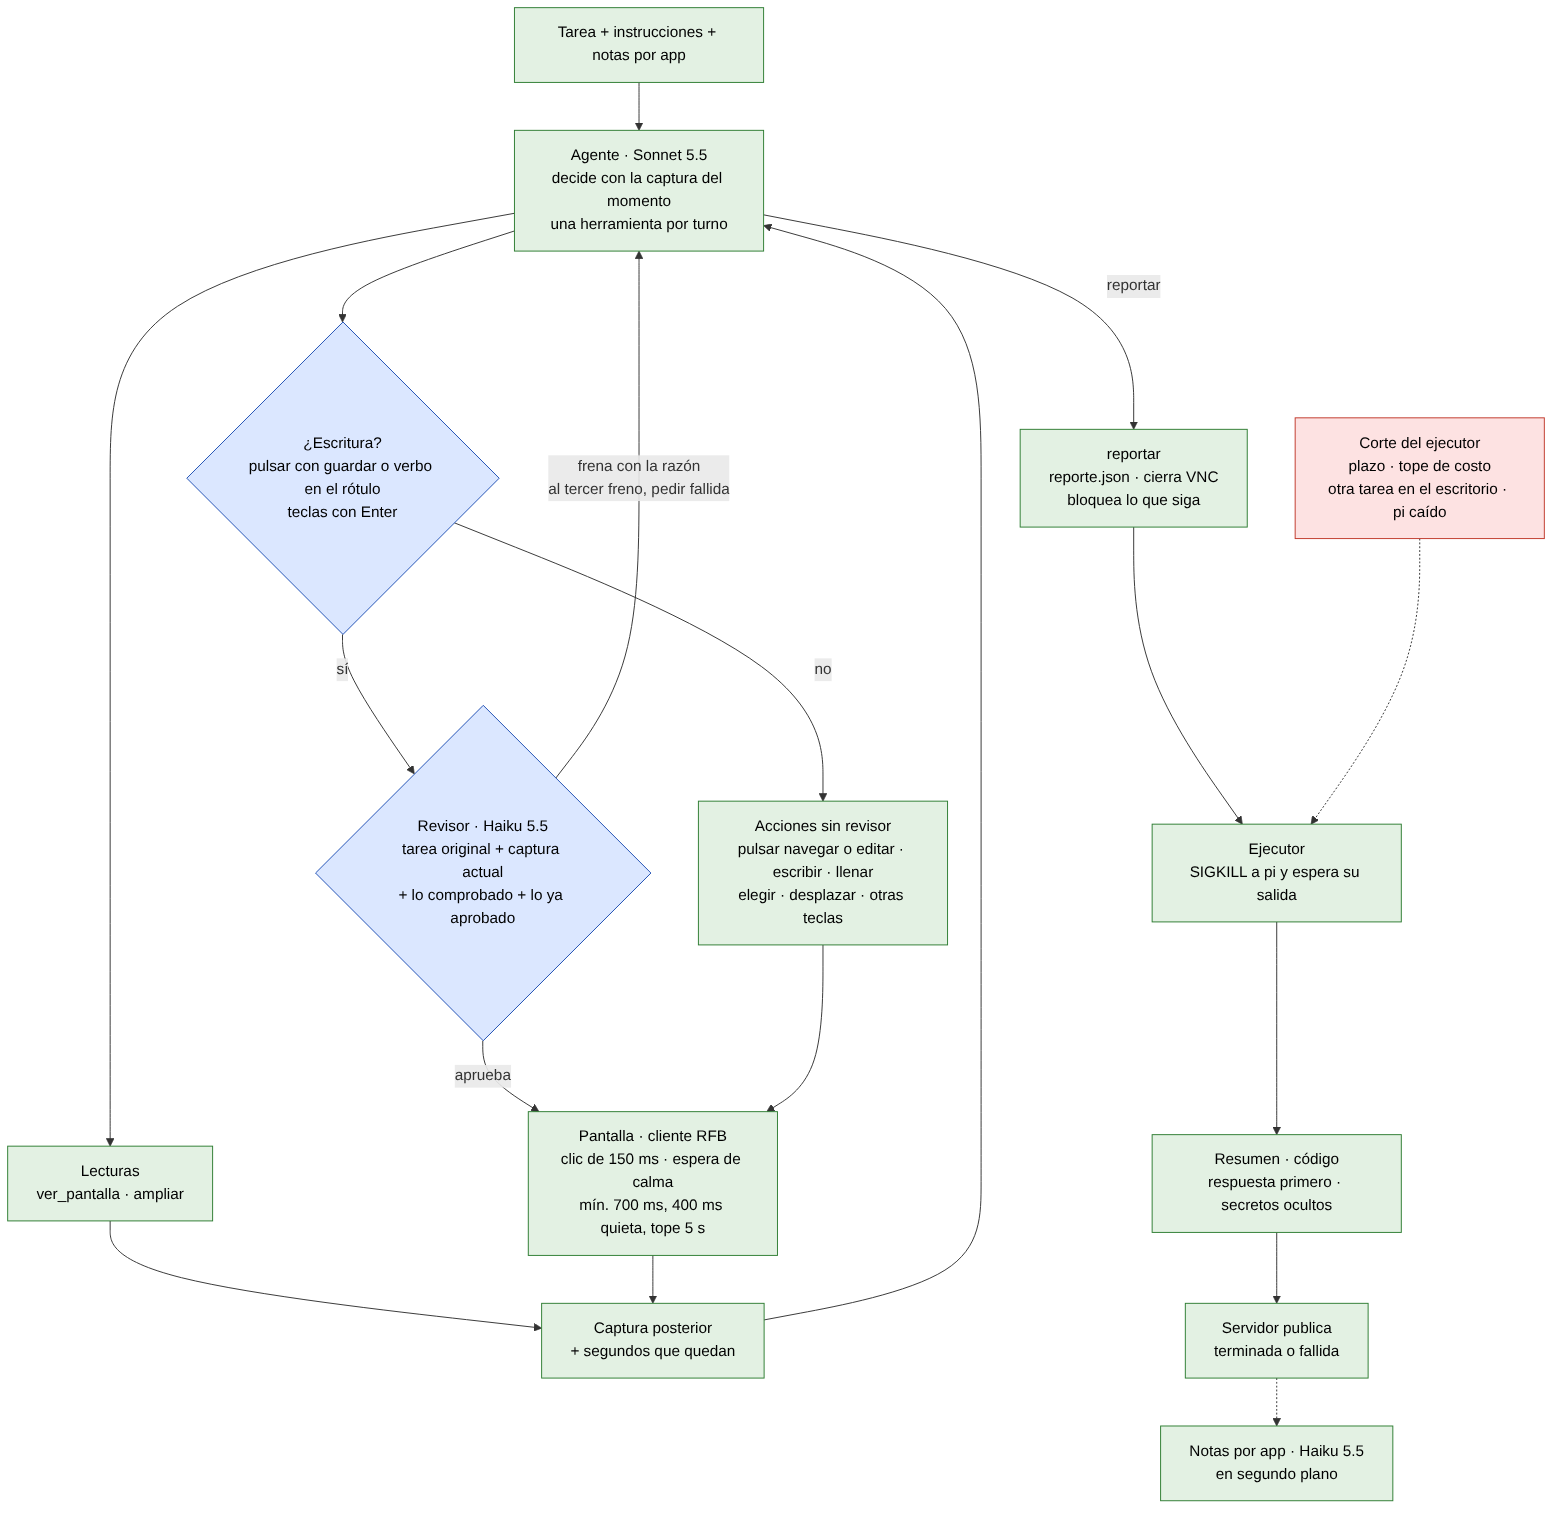
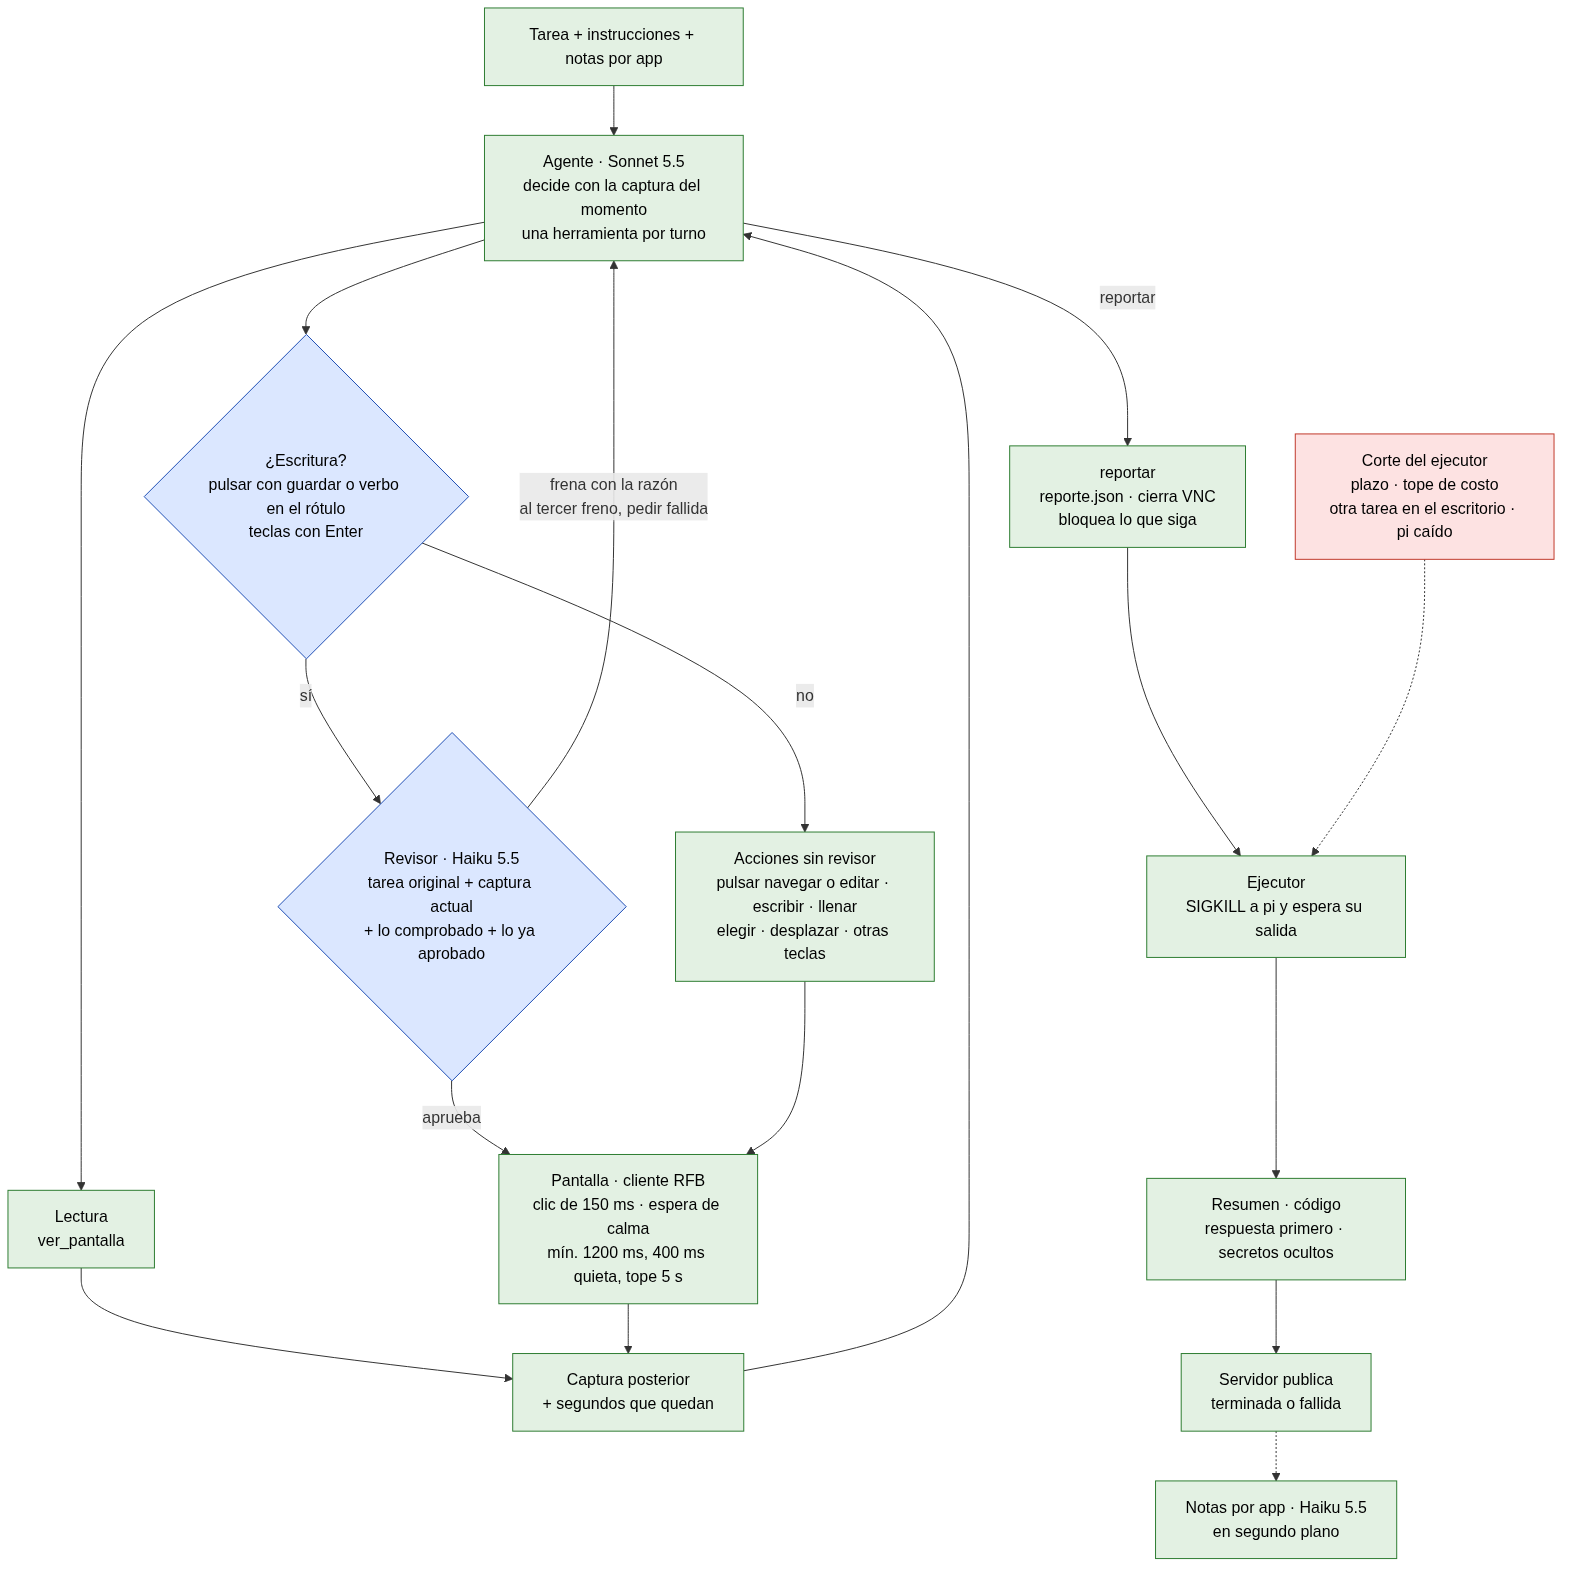
docs(arquitectura): actualizar herramientas, espera de repintado, plazo, tope y volumen en los diagramas
Ocho herramientas y solo ver_pantalla como lectura; espera mínima de 1200 ms; plazo de 285 s y tope de 0.50 USD; respaldo a plazo + TASK_GRACE_MS/2 y + TASK_GRACE_MS (8 s en Railway); /data como volumen. La tabla de límites deja de mencionar ampliaciones y agrega la bajada de datos del volumen con scripts/bajar-datos.sh. Regenera los tres PNG de docs/img con mermaid-cli 11.4.2.

diff --git a/docs/arquitectura.md b/docs/arquitectura.md
@@ -15,15 +15,15 @@ flowchart LR
     subgraph SVC["Contenedor siempre encendido en Railway · zona confiable"]
         direction TB
         SRV["Servidor HTTP · servidor.ts<br/>/health · POST /tasks · GET /tasks/id<br/>Bearer salvo /health"]
-        EJE["Ejecutor · ejecutor.ts<br/>un proceso de pi por tarea<br/>plazo 280 s · tope 0.60 USD"]
+        EJE["Ejecutor · ejecutor.ts<br/>un proceso de pi por tarea<br/>plazo 285 s · tope 0.50 USD"]
         subgraph PI["Proceso de pi de la tarea · entorno mínimo"]
             direction TB
             AG["Agente<br/>instrucciones.md + notas por app"]
-            EXT["Extensión herramientas.ts<br/>9 herramientas · revisor · traza"]
+            EXT["Extensión herramientas.ts<br/>8 herramientas · revisor · traza"]
             RFB["Cliente RFB propio<br/>src/escritorio"]
         end
         MEM["Notas por app · memoria.ts<br/>otro pi, sin herramientas"]
-        DATA[("DATA_DIR · /data<br/>tasks · trazas · notas-apps")]
+        DATA[("DATA_DIR · volumen /data<br/>tasks · trazas · notas-apps")]
     end
 
     subgraph OR["OpenRouter · externo"]
@@ -67,11 +67,11 @@ Cada caja dice qué modelo usa, si usa uno. Solo las acciones de escritura pasan
 flowchart TB
     T["Tarea + instrucciones + notas por app"]
     A["Agente · Sonnet 5.5<br/>decide con la captura del momento<br/>una herramienta por turno"]
-    L["Lecturas<br/>ver_pantalla · ampliar"]
+    L["Lectura<br/>ver_pantalla"]
     W{"¿Escritura?<br/>pulsar con guardar o verbo en el rótulo<br/>teclas con Enter"}
     ACC["Acciones sin revisor<br/>pulsar navegar o editar · escribir · llenar<br/>elegir · desplazar · otras teclas"]
     R{"Revisor · Haiku 5.5<br/>tarea original + captura actual<br/>+ lo comprobado + lo ya aprobado"}
-    P["Pantalla · cliente RFB<br/>clic de 150 ms · espera de calma<br/>mín. 700 ms, 400 ms quieta, tope 5 s"]
+    P["Pantalla · cliente RFB<br/>clic de 150 ms · espera de calma<br/>mín. 1200 ms, 400 ms quieta, tope 5 s"]
     O["Captura posterior<br/>+ segundos que quedan"]
     REP["reportar<br/>reporte.json · cierra VNC<br/>bloquea lo que siga"]
     CUT["Corte del ejecutor<br/>plazo · tope de costo<br/>otra tarea en el escritorio · pi caído"]
@@ -171,7 +171,7 @@ sequenceDiagram
     EJE->>EJE: armar el resumen con la respuesta primero, ocultar secretos
     EJE-->>SRV: desenlace
     SRV->>SRV: ocultar secretos otra vez, guardar y publicar
-    Note over SRV: respaldo si el ejecutor no devuelve<br/>pedir parar a plazo + 5 s, publicar fallida a plazo + 10 s
+    Note over SRV: respaldo si el ejecutor no devuelve<br/>pedir parar a plazo + TASK_GRACE_MS/2<br/>publicar fallida a plazo + TASK_GRACE_MS (8 s en Railway)
     EV->>SRV: GET /tasks/task_id
     SRV-->>EV: terminada o fallida + resumen
     SRV-)MEM: actualizar las notas de la app, en serie
@@ -181,13 +181,13 @@ Imagen: [img/2-secuencia.png](img/2-secuencia.png).
 
 ## 3. Límites de confianza
 
-| Límite                       | Qué lo cruza                                                                                                                                                                            | Regla                                                                                                                                                                                                                                                                                                     |
-| ---------------------------- | --------------------------------------------------------------------------------------------------------------------------------------------------------------------------------------- | --------------------------------------------------------------------------------------------------------------------------------------------------------------------------------------------------------------------------------------------------------------------------------------------------------- |
-| Evaluador → servidor         | Tarea, URL y contraseña del escritorio                                                                                                                                                  | Bearer en `POST /tasks` y `GET /tasks/{id}`, comparado en tiempo constante; `/health` no lo exige y lo acepta si viene. Cuerpo de hasta 64 KB, validado. La contraseña entra a la lista de secretos apenas llega.                                                                                         |
-| Servidor → proceso de `pi`   | Tarea, URL y contraseña del escritorio, key de OpenRouter                                                                                                                               | Entorno mínimo y explícito: el token del equipo no pasa. La tarea va en el prompt y en una variable de entorno, de donde la lee el revisor; la URL y la contraseña, solo en variables de entorno. `pi` corre sin herramientas incorporadas, extensiones, skills ni archivos de contexto ajenos.           |
-| Proceso de `pi` → OpenRouter | Instrucciones, notas, tarea, capturas, ampliaciones y resultados de herramientas; al revisor, la tarea, la acción, lo que el agente dice haber comprobado, lo ya aprobado y una captura | La contraseña nunca. El host del escritorio solo aparece si falla la conexión, en el mensaje de error. Las capturas pueden mostrar datos del negocio.                                                                                                                                                     |
-| Herramientas ↔ escritorio    | Entradas de ratón y teclado; framebuffer                                                                                                                                                | Todo lo que vuelve son píxeles no confiables: información, nunca órdenes. Las escrituras pasan antes por el revisor.                                                                                                                                                                                      |
-| Proceso de `pi` → servidor   | `reporte.json` y la salida de error                                                                                                                                                     | El proceso ya está muerto cuando se publica. Resumen y errores se redactan dos veces, en el ejecutor y en el servidor.                                                                                                                                                                                    |
-| Servidor → notas por app     | Bitácora de la traza (sin valores tecleados ni opciones elegidas, con las razones del revisor) y el resumen final                                                                       | La consigna prohíbe datos de registros, resultados y coordenadas. El resumen y las razones del revisor pueden traer datos: no está garantizado que no pasen.                                                                                                                                              |
-| Contenedor → disco           | Estado de tareas, trazas (capturas, acciones, texto tecleado) y notas                                                                                                                   | Quedan en `DATA_DIR` dentro del contenedor; `data/` y `.env` quedan fuera de git y de la imagen.                                                                                                                                                                                                          |
-| Servidor → logs              | Una línea JSON por evento                                                                                                                                                               | Redactada. Las líneas de una tarea, con sus secretos (su contraseña, el token y la key); las demás, con todos los conocidos, incluidas las contraseñas de escritorios recibidas antes. Los errores de las notas por app salen por la salida de error, sin redactar, con el nombre de la app y el mensaje. |
+| Límite                       | Qué lo cruza                                                                                                                                                              | Regla                                                                                                                                                                                                                                                                                                     |
+| ---------------------------- | ------------------------------------------------------------------------------------------------------------------------------------------------------------------------- | --------------------------------------------------------------------------------------------------------------------------------------------------------------------------------------------------------------------------------------------------------------------------------------------------------- |
+| Evaluador → servidor         | Tarea, URL y contraseña del escritorio                                                                                                                                    | Bearer en `POST /tasks` y `GET /tasks/{id}`, comparado en tiempo constante; `/health` no lo exige y lo acepta si viene. Cuerpo de hasta 64 KB, validado. La contraseña entra a la lista de secretos apenas llega.                                                                                         |
+| Servidor → proceso de `pi`   | Tarea, URL y contraseña del escritorio, key de OpenRouter                                                                                                                 | Entorno mínimo y explícito: el token del equipo no pasa. La tarea va en el prompt y en una variable de entorno, de donde la lee el revisor; la URL y la contraseña, solo en variables de entorno. `pi` corre sin herramientas incorporadas, extensiones, skills ni archivos de contexto ajenos.           |
+| Proceso de `pi` → OpenRouter | Instrucciones, notas, tarea, capturas y resultados de herramientas; al revisor, la tarea, la acción, lo que el agente dice haber comprobado, lo ya aprobado y una captura | La contraseña nunca. El host del escritorio solo aparece si falla la conexión, en el mensaje de error. Las capturas pueden mostrar datos del negocio.                                                                                                                                                     |
+| Herramientas ↔ escritorio    | Entradas de ratón y teclado; framebuffer                                                                                                                                  | Todo lo que vuelve son píxeles no confiables: información, nunca órdenes. Las escrituras pasan antes por el revisor.                                                                                                                                                                                      |
+| Proceso de `pi` → servidor   | `reporte.json` y la salida de error                                                                                                                                       | El proceso ya está muerto cuando se publica. Resumen y errores se redactan dos veces, en el ejecutor y en el servidor.                                                                                                                                                                                    |
+| Servidor → notas por app     | Bitácora de la traza (sin valores tecleados ni opciones elegidas, con las razones del revisor) y el resumen final                                                         | La consigna prohíbe datos de registros, resultados y coordenadas. El resumen y las razones del revisor pueden traer datos: no está garantizado que no pasen.                                                                                                                                              |
+| Contenedor → volumen `/data` | Estado de tareas, trazas (capturas, acciones, texto tecleado) y notas                                                                                                     | Quedan en `DATA_DIR`, un volumen de Railway montado en `/data`. `scripts/bajar-datos.sh` las baja a `data/railway/` en la máquina local, sin capturas salvo con `CON_CAPTURAS=1`; `data/` y `.env` quedan fuera de git y de la imagen.                                                                    |
+| Servidor → logs              | Una línea JSON por evento                                                                                                                                                 | Redactada. Las líneas de una tarea, con sus secretos (su contraseña, el token y la key); las demás, con todos los conocidos, incluidas las contraseñas de escritorios recibidas antes. Los errores de las notas por app salen por la salida de error, sin redactar, con el nombre de la app y el mensaje. |
